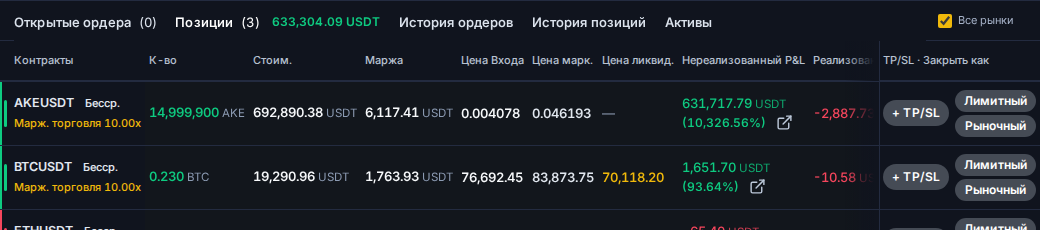
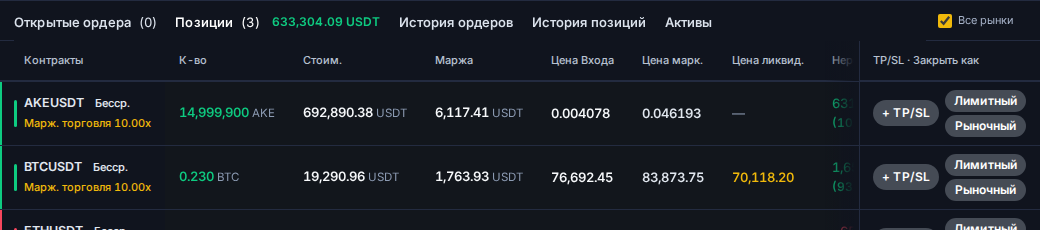
Positions table: 14px padding floor, the panel scrolls instead of squeezing
The owner would rather the figures keep 28px of air between them and the
table scroll sideways under its own scrollbar than have them squeezed to
fit at 1440; the floor of --pos-cell-x goes from 5/4px to 14px in the
wide, narrow and fallback rules. Re-measured at five widths, screenshots
re-taken, bottom-panel QA green.

Claude-Session: https://claude.ai/code/session_01QYDaBPmAQT7kqxtv32nEHZ

diff --git a/frontend/src/pages/trade-terminal/ArchiveTerminalPreview.css b/frontend/src/pages/trade-terminal/ArchiveTerminalPreview.css
@@ -232,15 +232,18 @@
    «Цена Входа · Цена марк. · Цена ликвид.» ten pixels apart everywhere. The
    row never starts scrolling at a width where it used to fit. */
 #archive-terminal-preview .futures-positions-scroll { container-type:inline-size; }
-#archive-terminal-preview .futures-positions-table { --pos-cell-x:5px; --pos-pnl-extra:0px; width:100%; min-width:0; table-layout:auto; font-family:var(--font-family); }
-@supports (width:1cqw) { #archive-terminal-preview .futures-positions-table { --pos-pnl-extra:clamp(0px,calc((100cqw - 1300px) / 12),20px); --pos-cell-x:clamp(5px,calc((100cqw - 1240px - 2 * var(--pos-pnl-extra)) / 22),16px); } }
+#archive-terminal-preview .futures-positions-table { --pos-cell-x:14px; --pos-pnl-extra:0px; width:100%; min-width:0; table-layout:auto; font-family:var(--font-family); }
+/* The padding floor is 14px (was 5): the owner would rather the figures keep
+   28px of air between them and the panel scroll sideways under its own
+   scrollbar than have them squeezed to fit. */
+@supports (width:1cqw) { #archive-terminal-preview .futures-positions-table { --pos-pnl-extra:clamp(0px,calc((100cqw - 1300px) / 12),20px); --pos-cell-x:clamp(14px,calc((100cqw - 1240px - 2 * var(--pos-pnl-extra)) / 22),16px); } }
 /* NARROW PANEL (under 1250px, flagged by the component): TP/SL and «Закрыть
    как» share one column, so the row has ten columns and twenty side
    paddings over ~1024px of figures. The padding comes down to 4px where the
    panel only just holds that, and nothing else is squeezed: no heading
    wraps, no figure shrinks. Measured at 1440: a 146px sideways scroll
    becomes none. */
-@supports (width:1cqw) { #archive-terminal-preview .futures-positions-scroll[data-narrow=true] .futures-positions-table { --pos-cell-x:clamp(4px,calc((100cqw - 1024px) / 20),16px); } }
+@supports (width:1cqw) { #archive-terminal-preview .futures-positions-scroll[data-narrow=true] .futures-positions-table { --pos-cell-x:clamp(14px,calc((100cqw - 1024px) / 20),16px); } }
 #archive-terminal-preview .futures-positions-table :is(th,td) { --pos-cell-bg:var(--panel); width:auto; padding:8px var(--pos-cell-x); padding-inline:var(--pos-cell-x) !important; white-space:nowrap; text-align:left; }
 /* The heading of the contract column starts where the contract name does,
    past the side bar. */

diff --git a/docs/AI_HANDOFF.md b/docs/AI_HANDOFF.md
@@ -3632,3 +3632,4 @@ withdrawal was placed.
 - Guards: `futuresReferenceRow` (heading tag matched with or without a `title`), `futuresProTerminal`, `futuresPositionProtection`, `futuresVisualPolish`, `futuresFinalPolish`, `i18nLanguageChunks`, `terminalDesignSystem`, `privateChartTicket` — 179/179. Re-run on the head without the archive Close All: the same suites plus `futuresUiPolish` 189/189, production build PASS, `qa-native-demo-browser.cjs` 15/15 (the eight `archivePositionActions` widths included), `qa-futures-bottom-panel.cjs` PASS, `qa-futures-visual-polish.cjs` PASS; the `after-*` screenshots re-taken from that head (1440 scroll 0, 1366 scroll 47, rows 64). Frontend `tsc` PASS, production build PASS. `qa-futures-bottom-panel.cjs` PASS (after one fix: the stacked pair first made the narrow row 65px; the check wants one height at every width). `qa-futures-visual-polish.cjs` PASS at five widths. `qa-limit-close.cjs` PASS (LONG/SHORT × 1440/390). `qa-large-numbers-browser.cjs` PASS (84 checks) after its table check was moved from four decimals + the ≈USD line to the archive's two decimals and no line — the check is about figures printed whole, not about the decimal count.
 - Preserved: #216/#220 (padding from the panel's width, quiet units, pinned edges with fades, centred headings over a hairline), the one-line-heading rule, the phone cards (`td::before` labels, 44px targets), the #161 removal of Close All from the archive design, the Pro terminal's Close All confirmation flow.
 - Unresolved: at 1366 the row is still 47px wider than the panel; a 1024-wide panel would need fewer columns, which the owner has not asked for. Not deployed.
+- **Follow-up after the owner's review of the preview** («багато чисел стоять дуже близько одне до одного… можна зробити таку полосу прокрутки, щоб частину під панель сховати і дати тексту дихати»): the padding floor `--pos-cell-x` is 14px (was 5px wide / 4px narrow / 5px fallback), so the figures never sit closer than 28px and the panel scrolls sideways under its own scrollbar instead. This reverses the earlier goal of no scroll at 1440; the owner chose air over fit. Measured (same rows, Inter): 2000 and 1920 no scroll, gaps 32–52 / 28–48px; 1664 scroll 125px; 1440 scroll 179px (was 0 with 9px gaps); 1366 scroll 247px (was 47 with 8px); gaps 28px at all three; rows 64px; 0 clipped cells; no page overflow. The `after-*` desktop screenshots re-taken; `qa-futures-bottom-panel.cjs` PASS.
